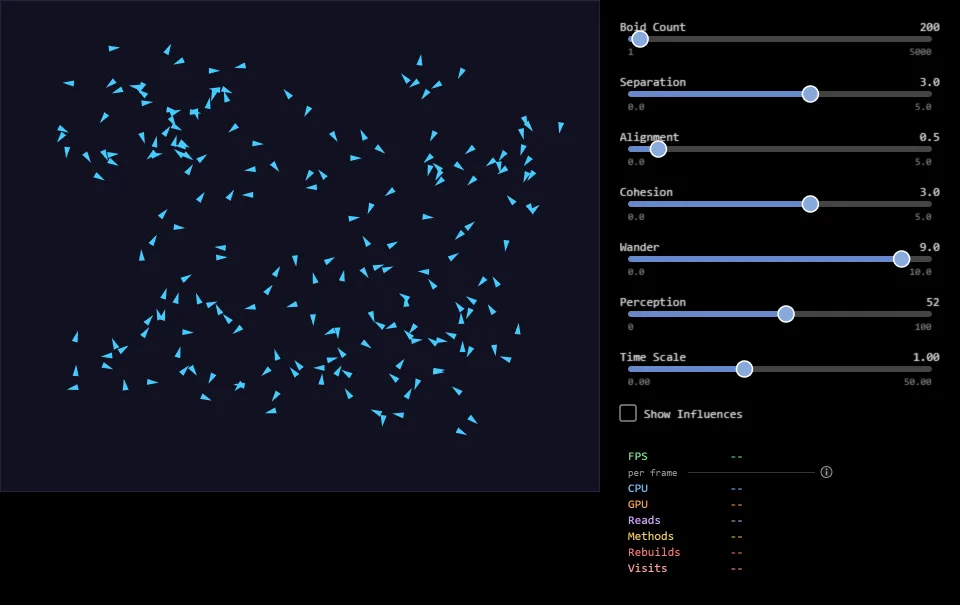
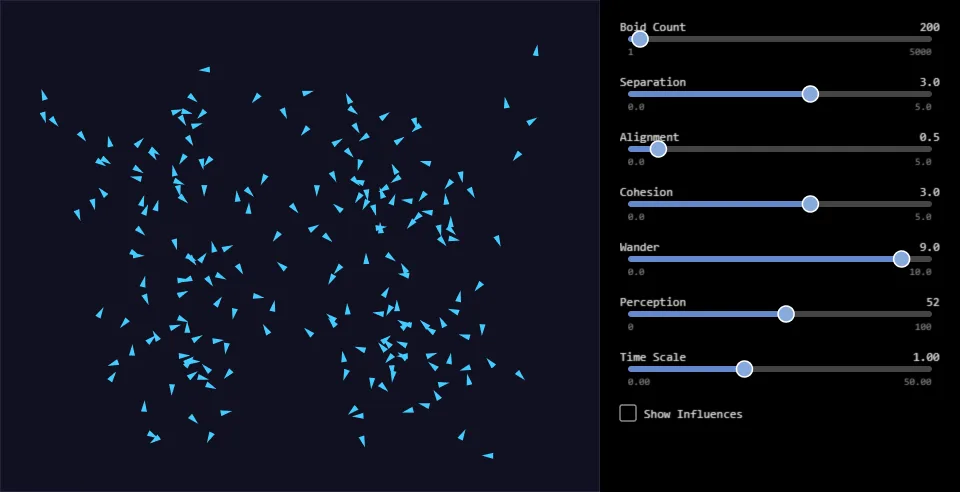
update notes

diff --git a/notes/README.md b/notes/README.md
@@ -131,10 +131,6 @@ loose ends are tasks 057 to 064.
 
 | # | Task | Priority | Created |
 | --- | --- | --- | --- |
-| 039 | [Link Previews for Each Entry](tasks/active/039-entry-link-previews.md) | low | 2026-10-18 |
-| 053 | [Models Name What the Player Means, Not the Controls](tasks/active/053-models-name-intent-not-input.md) | medium | 2026-10-16 |
-| 056 | [A Perfmon Throughout the Arcade, and a New Nav](tasks/active/056-floating-perfmon-in-the-arcade.md) | medium | 2026-10-17 |
-| 066 | [The Arcade's Way Into an Entry, Timed by the Model](tasks/active/066-arcade-way-in-timed-by-the-model.md) | medium | 2026-10-18 |
 
 ### Backlog
 
@@ -185,6 +181,7 @@ loose ends are tasks 057 to 064.
 | 033 | [Fruit Machine Demo](archive/033-fruit-machine-demo/task.md) (one model, four views: Pixi, three.js, an HTML panel and a terminal) | 2026-10-03 |
 | 036 | [Proposal: the website, and one Arcade for every entry](archive/036-website-arcade.md) (`site/` became `packages/sites/arcade/`, with `docs/`, `benchmarks/` and `checks/` beside it; the cabinet and the demos gallery became one Arcade, the home page, in HTML JSX: a search with tag tokens, a card wall in columns, committed thumbnails, a burn and power-on transition, and attract mode; every game and demo an entry in `src/entries/`, Pixi or `element`, hosted in one loop; a size budget on the home page. Absorbed task 026; loose ends are tasks 038-041) | 2026-10-05 |
 | 037 | [Arcade Code Review](archive/037-arcade-code-review.md) (036's Arcade, before switching over) | 2026-10-05 |
+| 039 | [Link Previews for Each Entry](archive/039-entry-link-previews.md) (the Arcade moved to `arcade/`, and the site's root redirects there; each entry has its own address, a copy of the Arcade's page with the entry's title and link preview, generated from the catalogue; the page writes the address as the entry plays) | 2026-10-18 |
 | 041 | [Docs: Questions the Arcade Raised](archive/041-docs-from-the-arcade.md) (Reading Layout Back, Reduced Motion and The URL and the Model in the guide, and the hand-over in Open-Ended Phases) | 2026-10-18 |
 | 042 | [Proposal: visual snapshot tests for views](archive/042-visual-snapshot-tests.md) (published to npm as `v-snap`: Vitest projects that draw Pixi, three.js, canvas and HTML views, and compare each image with a reference committed beside its test, the same on Windows, Linux and macOS with no Docker; every view and whole entry of the website is tested with it. Loose ends: the logo, a trial on a real project and the docs reviews, in `notes/tmp-vsnap-checklist.md`) | 2026-10-14 |
 | 043 | [Arcade: Fixes From the Playtest Review](archive/043-arcade-review-fixes.md) (the search list unfolds with a CSS transition in place of the wall's layout read in a refresh step; one open panel in the model; history steps for panels, safe against a panel opening as the page steps back; the nav magnifier in a view of its own) | 2026-10-06 |
@@ -194,8 +191,11 @@ loose ends are tasks 057 to 064.
 | 047 | [Pixel Art as Multiline Strings](archive/047-pixel-art-as-multiline-strings.md) (each texture script's pictures read by `parsePixelArt`) | 2026-10-18 |
 | 051 | [Proposal: the Audio90, and entries that choose their sound chip](archive/051-audio90-chip.md) (a second chip in `@mvtjs/chiptune`: sixteen stereo voices of FM, analog or samples bounced from its own engines, with a reverb, a stereo echo, a chorus and a pump; each entry's starter names its chip; the Tune Tracker plays fifteen original tunes of the 1990s; Neon Monsoon rescored; shared pixel glyphs for the older entries; the cards' long text after the first paint. Loose ends are task 065) | 2026-10-17 |
 | 052 | [Proposal: a playground that works like a small IDE](archive/052-playground-ide.md) (the playground became a package of its own, `packages/sites/playground/`, and the website became the Arcade: a project of real TypeScript files with real imports from a fixed list of libraries, intellisense from TypeScript in a worker, each run a fresh sandboxed iframe of ES modules, projects kept in IndexedDB, share links, Export as a Vite project, a file tree with kept barrels, themes, Help, and a Performance tab on `@mvtjs/html`'s new `PerfmonView`. Loose ends are tasks 057 to 064) | 2026-10-17 |
+| 053 | [Models Name What the Player Means, Not the Controls](archive/053-models-name-intent-not-input.md) (every game's input record folded into its model: a held control is state named for what it does, a one-off command an action taken at the next update; Fenceline's swipes and taps became `steer` and `stop`; the host's keyboard reports only changes; `OverlayView` reports a press; `@mvtjs/no-control-names` for model files) | 2026-10-18 |
 | 055 | [Rename `@mvtjs/audio` to `@mvtjs/chiptune`, and Publish It](archive/055-chiptune-package.md) (the package renamed and published, 0.3.0 by hand then 0.4.0 with the other four; each worklet inlined as a Blob URL in the published build; exported playground projects play sound; the chips stopped using `Math.pow`, whose last digit differs between Linux and Windows) | 2026-10-18 |
+| 056 | [A Perfmon Throughout the Arcade, and a New Nav](archive/056-floating-perfmon-in-the-arcade.md) (the Arcade drives one performance meter from its own loop, shown in a floating `PerfmonView` over the wall or any entry, with the GPU timed only while it is open; Boids and Falling Sand dropped their own panels; `@mvtjs/pixi`'s `createPerformanceMetrics` removed; the nav and the runner's bar touched up, and carried to the docs and the playground) | 2026-10-18 |
 | 064 | [HTML JSX: A Fixed `value` on a `<select>` Is Lost](archive/064-html-jsx-select-fixed-value.md) (kept until its option is added) | 2026-10-18 |
+| 066 | [The Arcade's Way Into an Entry, Timed by the Model](archive/066-arcade-way-in-timed-by-the-model.md) (the Arcade's model times the way in, in phases `'launching'` and `'revealing'`, with durations shared in `data/way-in.ts`; `EntryTransitionViewModel` draws from them, and keeps its own clock for the way out; a link straight to an entry no longer shows a small picture in the corner) | 2026-10-18 |
 
 ## Elsewhere
 

diff --git a/notes/archive/053-models-name-intent-not-input.md b/notes/archive/053-models-name-intent-not-input.md
@@ -5,7 +5,6 @@
 | Priority | medium     |
 | Created  | 2026-10-16 |
 | Updated  | 2026-10-18 |
-| Status   | Done in the `mvt-alignment` worktree, for review |
 
 ## Description
 
@@ -21,7 +20,7 @@ onRestartButtonChanged: (pressed) => { gameModel.restartPressed = pressed; },
 So the model knows there is a button, and knows what pressing it means. That
 is not MVT. The architecture docs name a relay binding for what the user did
 (`onFirePressed`), and leave what it means to whoever wires it
-([Relay Bindings and Input Handling](../../../packages/sites/docs/architecture/bindings.md#relay-bindings-and-input-handling)).
+([Relay Bindings and Input Handling](../../packages/sites/docs/architecture/bindings.md#relay-bindings-and-input-handling)).
 The wiring is the place to say "the Rise button means blow the tanks". The
 model should model what the player means: the tanks are being blown, or a
 new run was asked for. It should not model which control said so.
@@ -105,9 +104,9 @@ them.
   (`onPrimaryButtonChanged`). Only what each game wires them to changes.
 - **Tests.** Model tests that set the flags, `galaxy-raiders/views/audio-views.test.ts`,
   and the visual tests' poses, such as Deep Dive's, that hold a control.
-- **The docs.** [Style Guide](../../../packages/sites/docs/reference/style-guide.md)
+- **The docs.** [Style Guide](../../packages/sites/docs/reference/style-guide.md)
   uses `PlayerInputModel` as its example of a model's name, and
-  [View Composition](../../../packages/sites/docs/building-with-mvt/presenting-the-world/view-composition.md)
+  [View Composition](../../packages/sites/docs/building-with-mvt/presenting-the-world/view-composition.md)
   wires `model.playerInput.direction`.
 
 ## Acceptance Criteria
@@ -132,7 +131,7 @@ them.
 - [x] Every game plays as before, but for the changes in the log. Unit tests
       pass, and every visual test's reference image is unchanged
 - [x] The rule is written down: under **M-domain** in
-      [Architecture Rules](../../../packages/sites/docs/architecture/rules.md)
+      [Architecture Rules](../../packages/sites/docs/architecture/rules.md)
       (a control's name is not a domain term, so it needs no rule of its
       own), a paragraph in the architecture's bindings page, a row in the style guide's naming table (and the code-style
       skill's), a line in the model skill's forbidden patterns, the review
@@ -183,3 +182,6 @@ them.
     now does, so a press window needn't match the step.
   - Most games say "a new game" (Dojo Duel "a new match") in
     `startNewRun`'s doc, but keep the one name across games.
+- 2026-10-18: Archived, after review. M-intent was folded into M-domain at
+  the owner's request: a control's name is not a domain term, so it needs no
+  rule of its own. The pending-request flags are named `isXRequested`.

diff --git a/notes/archive/039-entry-link-previews.md b/notes/archive/039-entry-link-previews.md
@@ -79,7 +79,7 @@ development).
   `trailingSlashPlugin`, serves the Arcade's page for a path that names a
   catalogue entry. `/` serves the redirect page, as `<base>` does on Pages.
 
-This reverses proposal [036](../../archive/036-website-arcade.md)'s
+This reverses proposal [036](036-website-arcade.md)'s
 decision (section 12, question 5) that entries stay on fragments, and its
 plan for the Arcade to be the site's root page. Only `writeUrl` and
 `launchFromFragment` read or wrote the fragment.
@@ -121,14 +121,12 @@ plan for the Arcade to be the site's root page. Only `writeUrl` and
 
 - [x] The Arcade is at `<base>arcade/`, and `<base>` redirects to it,
   keeping the query
-- [ ] While an entry plays, the address bar shows its own address
+- [x] While an entry plays, the address bar shows its own address
   (`<base>arcade/<id>/`), and that address previews with the entry's name,
-  summary and picture (the address and the tags are done; the preview is
-  checked after deploying)
+  summary and picture (checked on the deployed site: see the log)
 - [x] Opening that address, or reloading it, plays the entry in the Arcade
-- [ ] Back and Forward move between the wall, the info panels and the entry
-  as they do now (checked for the wall and the entry, not yet by hand for
-  the info panels)
+- [x] Back and Forward move between the wall, the info panels and the entry
+  as they do now (checked in a headless browser: see the log)
 - [x] An old `<base>#<id>` link plays the entry and shows its new address
 - [x] The nav links in the Arcade, the playground and the docs reach each
   other from every page, an entry's page included
@@ -155,3 +153,11 @@ plan for the Arcade to be the site's root page. Only `writeUrl` and
   Arcade's models (unit tested). Lint, the type check, the unit tests and
   the home page's budget pass, and a headless browser walked the addresses
   on the dev server and the built site.
+
+- 2026-10-18: Checked and archived. On the deployed site,
+  `https://yortus.com/mvt-games/arcade/crumb-chase/` has its own title
+  ("Crumb Chase - MVT Arcade") and Open Graph tags (the entry's name,
+  summary, address and thumbnail), and the thumbnail loads. On the built
+  site, Back and Forward close and reopen an info panel on the wall and the
+  Arcade's About note, leave and re-enter an entry, and leave an entry with
+  its info panel open over it, which adds no step of its own.

diff --git a/notes/archive/056-floating-perfmon-in-the-arcade.md b/notes/archive/056-floating-perfmon-in-the-arcade.md
@@ -265,3 +265,13 @@ Still to do: regenerate the Boids and Falling Sand thumbnails
 (`npm run generate-thumbnails -- boids falling-sand`), whose play areas
 changed. Then copy the nav's design to the docs and the playground once it
 is settled.
+
+### 2026-10-18, later
+
+Checked for archiving: every criterion is met, and the nav was carried to
+the docs and the playground (2a7056c6). The Boids and Falling Sand
+thumbnails were still the old play areas' (960x605 for a 960x492 play area,
+and 514x898 for 480x722). Regenerated them with `npm run
+generate-thumbnails -- boids falling-sand`: Boids at 960x492, and Falling
+Sand at 514x774, its play area's shape. Neither shows a Perfmon panel.
+Archived.

diff --git a/notes/archive/066-arcade-way-in-timed-by-the-model.md b/notes/archive/066-arcade-way-in-timed-by-the-model.md
@@ -5,7 +5,6 @@
 | Priority | medium     |
 | Created  | 2026-10-18 |
 | Updated  | 2026-10-18 |
-| Status   | Done in the `mvt-alignment` worktree, for review |
 
 ## Description
 
@@ -121,3 +120,6 @@ in place of the hand-over.
     typed words, which is the search box's behaviour. The wiring in
     `arcade-head-view.tsx` clears them now, and the model's action only
     chooses the tag.
+- 2026-10-18: Archived, after review. The view model was renamed
+  `EntryTransitionViewModel` (and its view `EntryTransitionView`), after the
+  Arcade's term for the entries it goes into and out of.
